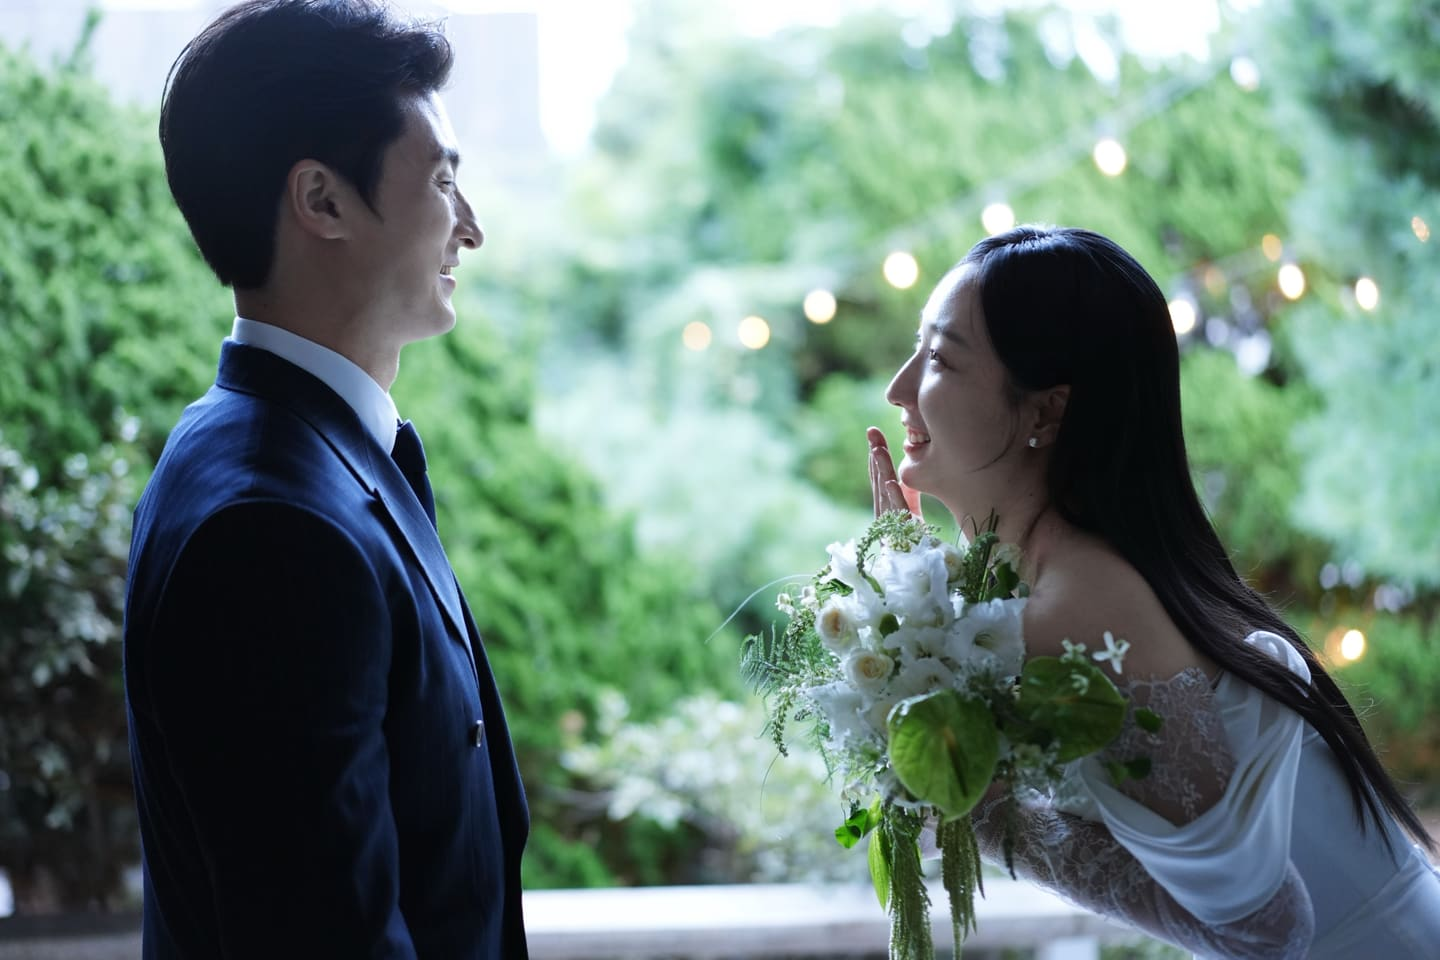
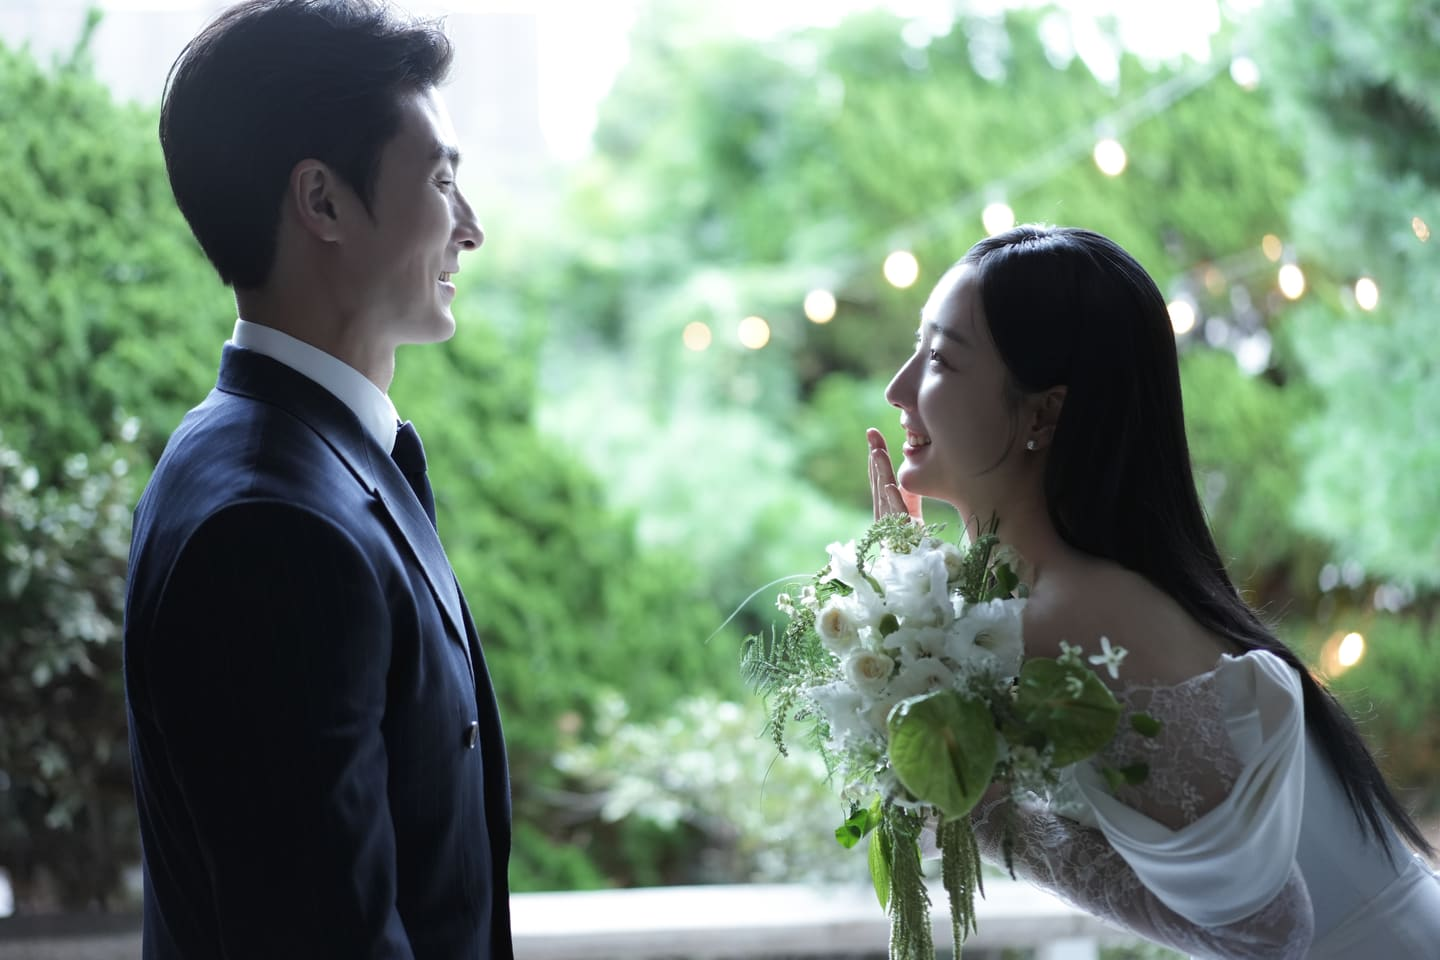
갤러리: IMG_8681 제거, 새 사진 3장 추가(9장)
맨 앞 가로 와이드 자리는 새 가로 사진으로 교체, 세로 2장은 뒤에 추가

diff --git a/index.html b/index.html
@@ -163,13 +163,15 @@
       <p class="eyebrow">Gallery</p>
       <h2 class="section-title">우리의 순간들</h2>
       <div class="gallery" id="gallery">
-        <button type="button" class="gallery-item is-wide"><img src="./assets/img/gallery-01.jpg?v=4a9dee63" alt="웨딩 사진 1" loading="lazy" decoding="async"></button>
+        <button type="button" class="gallery-item is-wide"><img src="./assets/img/gallery-01.jpg?v=10bb6409" alt="웨딩 사진 1" loading="lazy" decoding="async"></button>
         <button type="button" class="gallery-item"><img src="./assets/img/gallery-02.jpg?v=044988b3" alt="웨딩 사진 2" loading="lazy" decoding="async"></button>
         <button type="button" class="gallery-item"><img src="./assets/img/gallery-03.jpg?v=f6a37e6c" alt="웨딩 사진 3" loading="lazy" decoding="async"></button>
         <button type="button" class="gallery-item"><img src="./assets/img/gallery-04.jpg?v=d97c569b" alt="웨딩 사진 4" loading="lazy" decoding="async"></button>
         <button type="button" class="gallery-item"><img src="./assets/img/gallery-05.jpg?v=987bb9ab" alt="웨딩 사진 5" loading="lazy" decoding="async"></button>
         <button type="button" class="gallery-item"><img src="./assets/img/gallery-06.jpg?v=35b46456" alt="웨딩 사진 6" loading="lazy" decoding="async"></button>
         <button type="button" class="gallery-item"><img src="./assets/img/gallery-07.jpg?v=46e19884" alt="웨딩 사진 7" loading="lazy" decoding="async"></button>
+        <button type="button" class="gallery-item"><img src="./assets/img/gallery-08.jpg?v=447e873a" alt="웨딩 사진 8" loading="lazy" decoding="async"></button>
+        <button type="button" class="gallery-item"><img src="./assets/img/gallery-09.jpg?v=07ebc38e" alt="웨딩 사진 9" loading="lazy" decoding="async"></button>
       </div>
       <button type="button" class="gallery-more" id="gallery-more" aria-expanded="false" hidden>더보기</button>
     </section>
